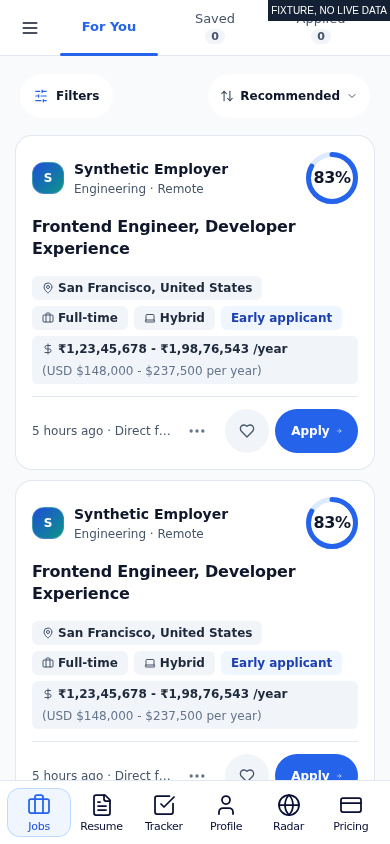
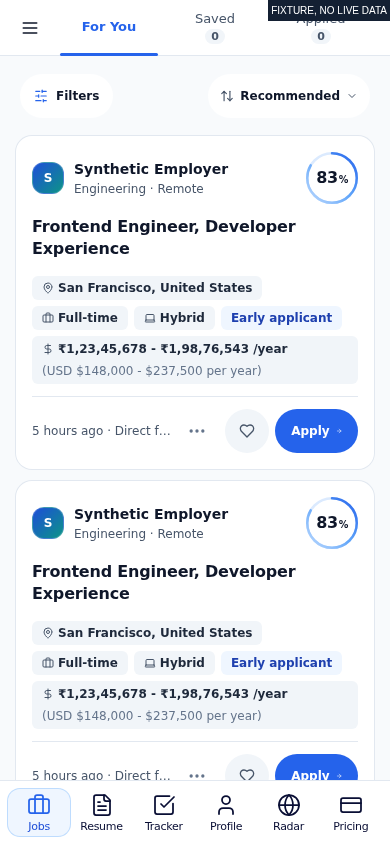
Match score-ring reference and hide normal-flow load button

Changed region(s): [[0.7692, 0.5853, 0.9231, 0.6777], [0.7692, 0.1848, 0.9231, 0.2464]]

diff --git a/src/app/jobs/page.tsx b/src/app/jobs/page.tsx
@@ -1,6 +1,6 @@
 "use client";
 
-import React, { useState, useMemo, useEffect, useRef, Suspense, startTransition } from "react";
+import React, { useState, useMemo, useEffect, useRef, useId, Suspense, startTransition } from "react";
 import dynamic from "next/dynamic";
 import Link from "next/link";
 import { useRouter } from "next/navigation";
@@ -323,9 +323,11 @@ function CircularMatchRing({
   /** White-card variant (mobile list): CM-blue arc on a pale track, dark text. */
   light?: boolean;
 }) {
+  const gradientId = `match-blue-${useId().replace(/:/g, "")}`;
+  const displayScore = Math.min(100, Math.max(0, score));
   const radius = (size - strokeWidth) / 2;
   const circumference = 2 * Math.PI * radius;
-  const offset = circumference - (score / 100) * circumference;
+  const offset = circumference - (displayScore / 100) * circumference;
   const textClass = size >= 75 ? "text-2xl font-black" : size >= 65 ? "text-xl font-black" : size >= 50 ? "text-[16px] font-bold" : "text-[13px] font-bold";
 
   return (
@@ -333,7 +335,14 @@ function CircularMatchRing({
       className="relative inline-flex items-center justify-center shrink-0"
       style={{ width: size, height: size }}
     >
-      <svg className="w-full h-full -rotate-90" viewBox={`0 0 ${size} ${size}`}>
+      <svg aria-hidden="true" className="w-full h-full -rotate-90" viewBox={`0 0 ${size} ${size}`}>
+        <defs>
+          <linearGradient id={gradientId} x1="0%" y1="0%" x2="100%" y2="100%">
+            <stop offset="0%" stopColor="#BFDBFE" />
+            <stop offset="50%" stopColor="#60A5FA" />
+            <stop offset="100%" stopColor="#2563EB" />
+          </linearGradient>
+        </defs>
         <circle
           cx={size / 2}
           cy={size / 2}
@@ -346,7 +355,7 @@ function CircularMatchRing({
           cx={size / 2}
           cy={size / 2}
           r={radius}
-          stroke={light ? "#2563EB" : "#2DD4BF"}
+          stroke={`url(#${gradientId})`}
           strokeWidth={strokeWidth}
           strokeDasharray={circumference}
           strokeDashoffset={offset}
@@ -357,7 +366,7 @@ function CircularMatchRing({
       </svg>
       <div className="absolute inset-0 flex items-center justify-center">
         <span className={`${textClass} ${light ? "text-[#0F172A]" : "text-white"} leading-none tracking-tight`}>
-          {score}%
+          {displayScore}<span className="text-[0.6em] font-semibold ml-px">%</span>
         </span>
       </div>
     </div>
@@ -2360,7 +2369,7 @@ function JobsPageInner() {
                                     <CircularMatchRing
                                       score={matchScore}
                                       size={70}
-                                      strokeWidth={4.5}
+                                      strokeWidth={3}
                                       isPro={isPro}
                                     />
                                     <div className="text-[11px] font-bold uppercase tracking-wider text-slate-100 mt-2">
@@ -2447,7 +2456,7 @@ function JobsPageInner() {
                                       title={`Fit Match: ${matchScore}%`}
                                       aria-label={`Fit Match: ${matchScore}%`}
                                     >
-                                      <CircularMatchRing score={matchScore} size={52} strokeWidth={5} light />
+                                      <CircularMatchRing score={matchScore} size={52} strokeWidth={2.5} light />
                                     </div>
                                   ) : (
                                     <Link
@@ -2580,7 +2589,7 @@ function JobsPageInner() {
                       })}
 
                       {/* Load More Pagination: strictly scoped to tabs with active server-side pagination.
-                          Scrolling auto-loads via the sentinel; the button stays as the accessible manual fallback. */}
+                          Scrolling auto-loads via the sentinel; a button appears only for error or paused recovery. */}
                       {canLoadMore && (
                         // overflow-anchor:none: otherwise scroll anchoring keeps this block in view as cards are
                         // inserted above it, the sentinel stays visible and pages chain-load.
@@ -2589,26 +2598,17 @@ function JobsPageInner() {
                           {loadMoreError && (
                             <p className="text-xs text-[#B91C1C] pb-2" role="alert">Couldn&apos;t load more jobs.</p>
                           )}
-                          <button
-                            type="button"
-                            onClick={handleLoadMore}
-                            disabled={loadingMore}
-                            className="px-6 py-3 rounded-xl border border-[#E2E8F0] bg-white hover:bg-[#F8FAFC] text-[#0F172A] text-xs font-bold transition shadow-none cursor-pointer disabled:opacity-60 min-h-[44px]"
-                          >
-                            {loadingMore ? (
-                              "Loading Positions..."
-                            ) : loadMoreError ? (
-                              "Retry"
-                            ) : (
-                              <>
-                                Load More Verified Positions
-                                {/* Inventory count is desktop-only; mobile shows no remaining/total text (item 22) */}
-                                {totalCount > liveJobs.length && (
-                                  <span className="hidden sm:inline">{` (~${Math.max(0, totalCount - liveJobs.length).toLocaleString()} remaining)`}</span>
-                                )}
-                              </>
-                            )}
-                          </button>
+                          {loadingMore && <p className="text-xs text-[#475569] py-3" role="status">Loading Positions...</p>}
+                          {(loadMoreError || autoLoadPaused) && (
+                            <button
+                              type="button"
+                              onClick={handleLoadMore}
+                              disabled={loadingMore}
+                              className="px-6 py-3 rounded-xl border border-[#E2E8F0] bg-white hover:bg-[#F8FAFC] text-[#0F172A] text-xs font-bold transition shadow-none cursor-pointer disabled:opacity-60 min-h-[44px]"
+                            >
+                              {loadMoreError ? "Retry" : "Load More Verified Positions"}
+                            </button>
+                          )}
                         </div>
                       )}
                       {activeTab === "recommended" && !canLoadMore && page > 1 && (

diff --git a/src/app/jobs/__tests__/jobsPaginationIntegration.test.tsx b/src/app/jobs/__tests__/jobsPaginationIntegration.test.tsx
@@ -57,6 +57,7 @@ describe("mobile infinite scroll on the real feed (item 21)", () => {
       p === 1 ? page(jobs(range(1, 25)), true) : p === 2 ? page(jobs(range(26, 50)), true) : page(jobs(range(51, 60)), false);
     await mount();
     expect(uniqueTitles()).toHaveLength(25);
+    expect(loadMoreButton()).toBeNull();
     expect(screen.getByTestId("jobs-load-more-sentinel")).toBeTruthy();
 
     await act(async () => io.enter());
@@ -99,8 +100,8 @@ describe("mobile infinite scroll on the real feed (item 21)", () => {
     for (let k = 0; k < 6; k++) await act(async () => io.enter());
     await flush();
     expect(pagesRequested()).toEqual([1, 2]);
-    expect(loadMoreButton()?.textContent).toBe("Loading Positions...");
-    expect((loadMoreButton() as HTMLButtonElement).disabled).toBe(true);
+    expect(screen.getByRole("status").textContent).toBe("Loading Positions...");
+    expect(loadMoreButton()).toBeNull();
     await act(async () => slow.resolve(page(jobs(range(26, 30)), false)));
     await flush();
     expect(uniqueTitles()).toHaveLength(30);
@@ -132,11 +133,8 @@ describe("mobile infinite scroll on the real feed (item 21)", () => {
     await flush();
     expect(pagesRequested()).toEqual([1, 2, 2]);
     expect(uniqueTitles()).toHaveLength(50);
-    // The mobile button never carries the inventory count (desktop-only span).
-    const button = loadMoreButton()!;
-    expect(button.textContent).toContain("Load More Verified Positions");
-    const countSpan = Array.from(button.querySelectorAll("span")).find((s) => /remaining/.test(s.textContent || ""));
-    expect(countSpan?.className ?? "hidden sm:inline").toContain("hidden sm:inline");
+    // Successful retry resumes normal scroll loading without a button.
+    expect(loadMoreButton()).toBeNull();
     expect(document.body.textContent).not.toMatch(/\d+ jobs? remaining/i);
   });
 

diff --git a/src/components/jobs/__tests__/mobileCardScore.test.ts b/src/components/jobs/__tests__/mobileCardScore.test.ts
@@ -9,12 +9,16 @@ describe("mobile card score weight (item 19)", () => {
     const block = page.slice(page.indexOf('data-testid="mobile-card-score"') - 200, page.indexOf('data-testid="mobile-card-score"') + 700);
     expect(block).toContain("matchScore !== null ? (");
     expect(block).toContain("aria-label={`Fit Match: ${matchScore}%`}");
-    expect(block).toContain("<CircularMatchRing score={matchScore} size={52} strokeWidth={5} light />");
+    expect(block).toContain("<CircularMatchRing score={matchScore} size={52} strokeWidth={2.5} light />");
     expect(page).not.toContain("w-[54px] h-[30px]");
   });
 
-  it("light ring uses CM blue, dark ring unchanged for desktop; no-score cards keep the +Score resume link", () => {
-    expect(page).toContain('stroke={light ? "#2563EB" : "#2DD4BF"}');
+  it("both feed rings use a blue gradient and small percent sign; no-score cards keep the resume link", () => {
+    expect(page).toContain('stroke={`url(#${gradientId})`}');
+    expect(page).toContain('stopColor="#BFDBFE"');
+    expect(page).toContain('stopColor="#2563EB"');
+    expect(page).toContain('text-[0.6em]');
+    expect(page).toContain('(displayScore / 100) * circumference');
     expect(page).toContain('stroke={light ? "#DBEAFE" : "#1E293B"}');
     expect(page).toContain("+Score");
   });

diff --git a/src/components/jobs/__tests__/mobileNoInventoryText.test.ts b/src/components/jobs/__tests__/mobileNoInventoryText.test.ts
@@ -5,8 +5,9 @@ import { describe, expect, it } from "vitest";
 const page = readFileSync("src/app/jobs/page.tsx", "utf8");
 
 describe("mobile bottom inventory text (item 22)", () => {
-  it("the remaining count renders only from sm up", () => {
-    expect(page).toMatch(/<span className="hidden sm:inline">\{` \(~\$\{Math\.max\(0, totalCount - liveJobs\.length\)\.toLocaleString\(\)\} remaining\)`\}<\/span>/);
+  it("normal loading has no button or remaining count at any width", () => {
+    expect(page).toContain("{(loadMoreError || autoLoadPaused) && (");
+    expect(page).not.toContain("remaining)`");
     expect(page).not.toContain("`Load More Verified Positions (~");
   });
 

diff --git a/docs/for-you-feed/VERIFICATION.md b/docs/for-you-feed/VERIFICATION.md
@@ -18,3 +18,11 @@ Verification:
 - Full-suite runs exceeded the command time limit before completion; no full-suite pass claimed. CI remains the full-suite gate.
 
 Reproduce: node scripts/mobile-715/build.cjs; npx tailwindcss -i src/app/globals.css -o reports/mobile-715/tailwind.css; node scripts/mobile-715/for-you-scroll.cjs; node scripts/mobile-715/feed-integration.cjs.
+
+## Reference follow-up
+
+Owner supplied the score-ring reference on Nov24 at 16:54. Feed rings retain the same size and position, with a thinner blue-gradient score arc and smaller percent sign. Mobile stroke 2.5px, desktop/tablet 3px. Each ring has a unique gradient ID; score values and scoring inputs unchanged.
+
+Normal flow now has only sentinel and non-interactive loading status. Button appears only for error or paused empty/duplicate-page recovery. No remaining count on any screen. Native IO checks repeated at 360/390/768/1440: 50 idle then 75 on fresh End. After 75 cards, DOM asserts no Load More button and captures at 390/1440 show the last card, sentinel gap and footer with no button. Fresh-input gate unchanged.
+
+100 focused tests pass again; typecheck passes. Updated ring screenshots inspected at all four widths. Only fixture pixels, not live score accuracy evidence.
